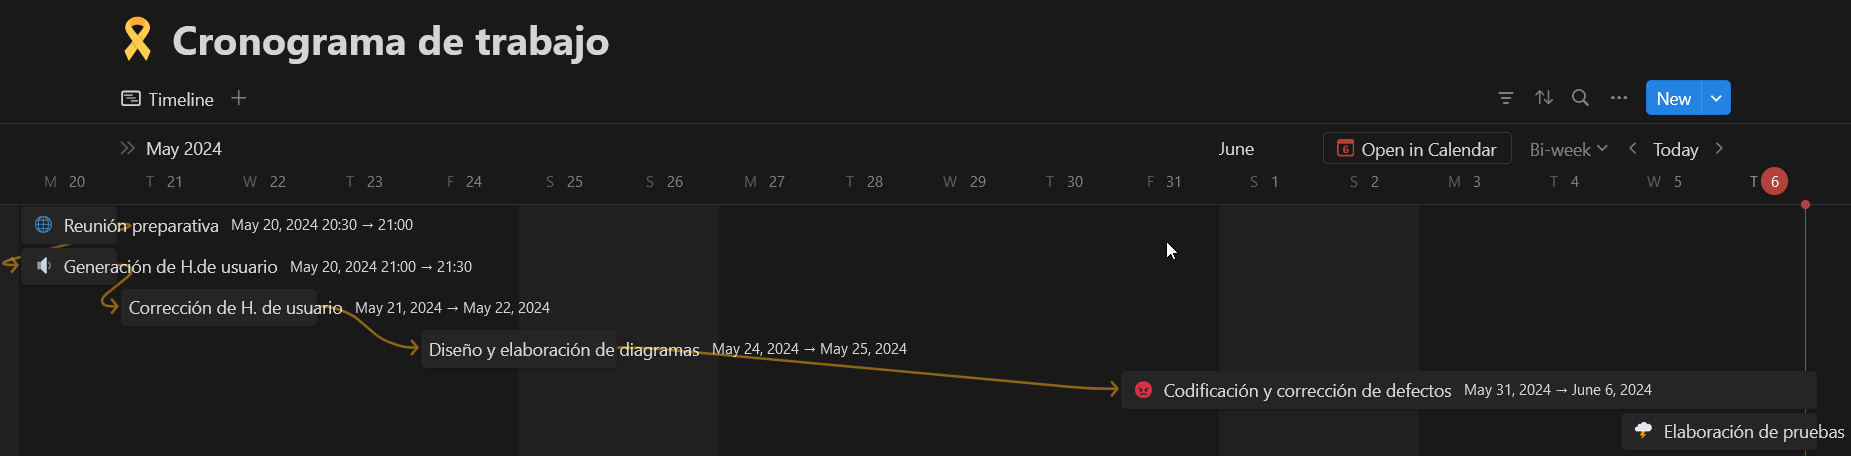
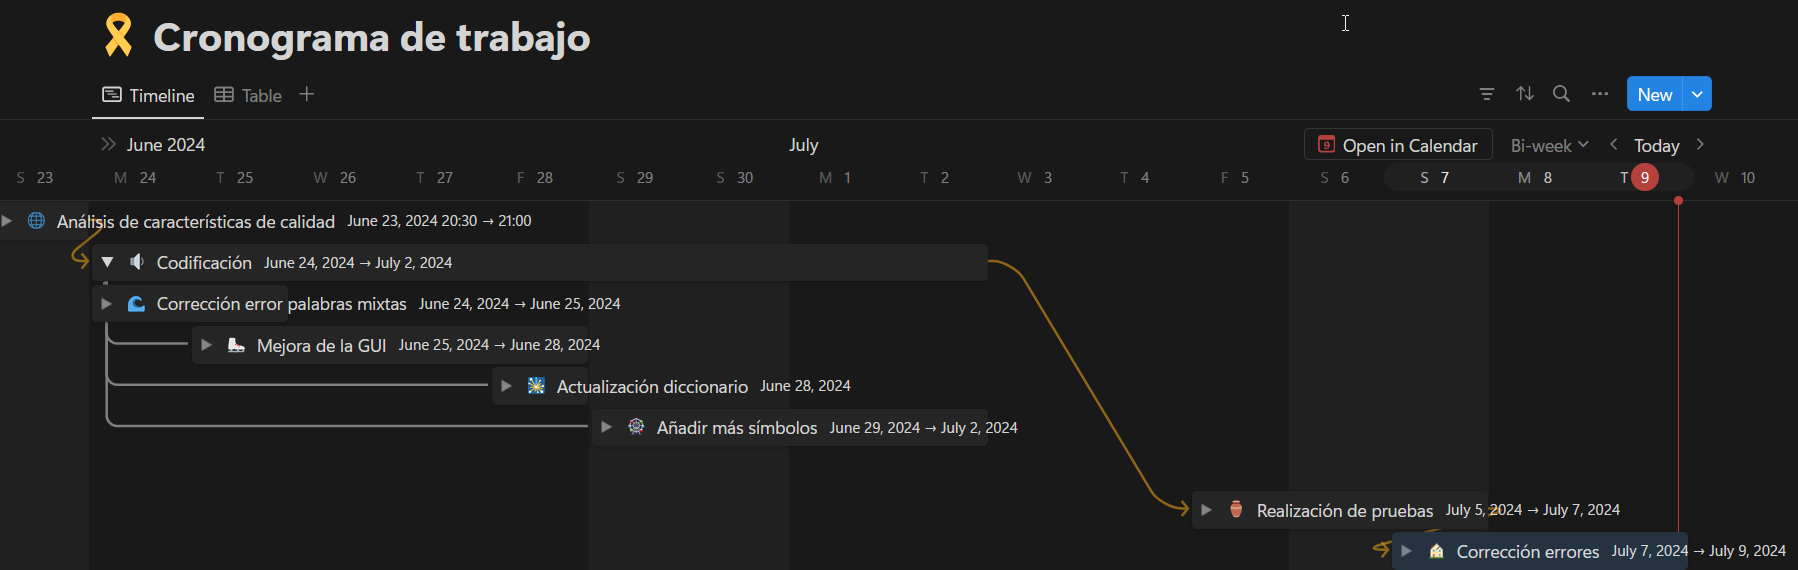
edit Documentación de planificación

diff --git a/Documentacion/Doc v2.0/Planificación de Actividades.md b/Documentacion/Doc v2.0/Planificación de Actividades.md
@@ -7,60 +7,41 @@
 - Definir los objetivos específicos del proyecto.
 - Establecer un cronograma detallado.
 
-## Semana 1 y 2
 ## Cronograma
 
 *Enlace cronograma*: https://tasteful-cycle-2dc.notion.site/ea7b5bdacd754e6ea18c9b41f8bfc91d?v=882cb3aa4c214ceb9071cd220ba41921*
 
-![Texto alternativo](./images/cronograma-V3.jpeg)
+![Texto alternativo](./images/cronograma-V3.png)
 
 ## Actividades
 
-### 1. Reunión de Inicio y Análisis de Requisitos
-**Fecha:** 20/05/2024  
+### 1. Análisis características de calidad
+**Fecha:** 23/06/2024  
 **Duración:** 1 hora  
 
 **Descripción:**
-- Presentación detallada del proyecto, incluyendo requisitos, objetivos y beneficios esperados.
-- Recolección exhaustiva de los requisitos del cliente, asegurando una comprensión completa de las necesidades.
-- Discusión y definición de las historias de usuario, estableciendo los principales flujos de trabajo del sistema.
-- Creación del repositorio del proyecto enGitHub.
+- Reconocimiento de características y subcaracterísticas aplicables al contexto de la aplicación software desarrollada.
+- Identificación de aspectos a mejorar en el producto software
 
-### 2. Corrección de Historias de Usuario
-**Fecha:** 21/05/2024  -  22/05/2024  
-**Duración:** 1 hora  
+### 2. Codificación
+**Fecha:** 24/06/2024  -  02/07/2024
+**Duración:** 9 días
 
 **Descripción:**
-- Revisión minuciosa de las historias de usuario identificadas previamente.
-- Identificación y corrección de posibles ambigüedades, inconsistencias o requisitos faltantes en las historias.
-- Aseguramiento de que las historias de usuario sean claras, específicas, alcanzables y relevantes para los objetivos del proyecto.
+- Desarrollo de features que garanticen el cumplimiento de las características de calidad del producto y de uso.
 
-### 3. Diseño y Elaboración de Diagramas de Clases
-**Fecha:** 24/05/2024 - 25/05/2024  
+### 3. Realización de pruebas
+**Fecha:** 05/07/2024 - 07/07/2024  
 **Duración:** 2 días
 
 **Descripción:**
-- Creación del diagrama de clases para representar la estructura de la aplicación.
-- Identificación de las clases principales, sus atributos y relaciones, así como los métodos asociados.
+- Realización de la documentación de nuevos casos de pruebas.
+- Ejecución de casos de pruebas.
+- Identificación de errores presentados en la nueva versión del código.
 
-### 4. Codificación y corrección de defectos
-**Fecha:** 31/05/2024 - 06/06/2024  
-**Duración:** 4 días  
-
-**Descripción:**
-- Implementación del código base del proyecto, siguiendo las especificaciones definidas en las historias de usuario y del diagrama de clases.
-- Desarrollo de casos de prueba unitarios para validar el comportamiento esperado de las diferentes partes del sistema.
-- Integración continua del código en el repositorio principal, asegurando una colaboración fluida entre los miembros del equipo y una visibilidad actualizada del progreso del proyecto.
-
-### 5. Refinamiento y Corrección de Bugs
-**Fecha:** 05/06/2024 - 06/06/2024  
-**Duración:** 2 días  
+### 4. Corrección de errores
+**Fecha:** 07/07/2024 - 09/07/2024  
+**Duración:** 3 días  
 
 **Descripción:**
-- Optimización del código existente para mejorar su rendimiento, legibilidad y mantenibilidad.
-- Identificación y corrección de errores y fallos (bugs) reportados durante las pruebas realizadas en la etapa de codificación.
-- Ejecución de pruebas adicionales para garantizar la estabilidad y calidad del sistema antes de su entrega o despliegue.
-## Observaciones
-- Las fechas pueden ajustarse según la disponibilidad de los participantes.
-- Se deben programar reuniones de seguimiento semanales.
-
+- Codificación realizada para asegurar que los errores encontrados sean corregidos debidamente.
